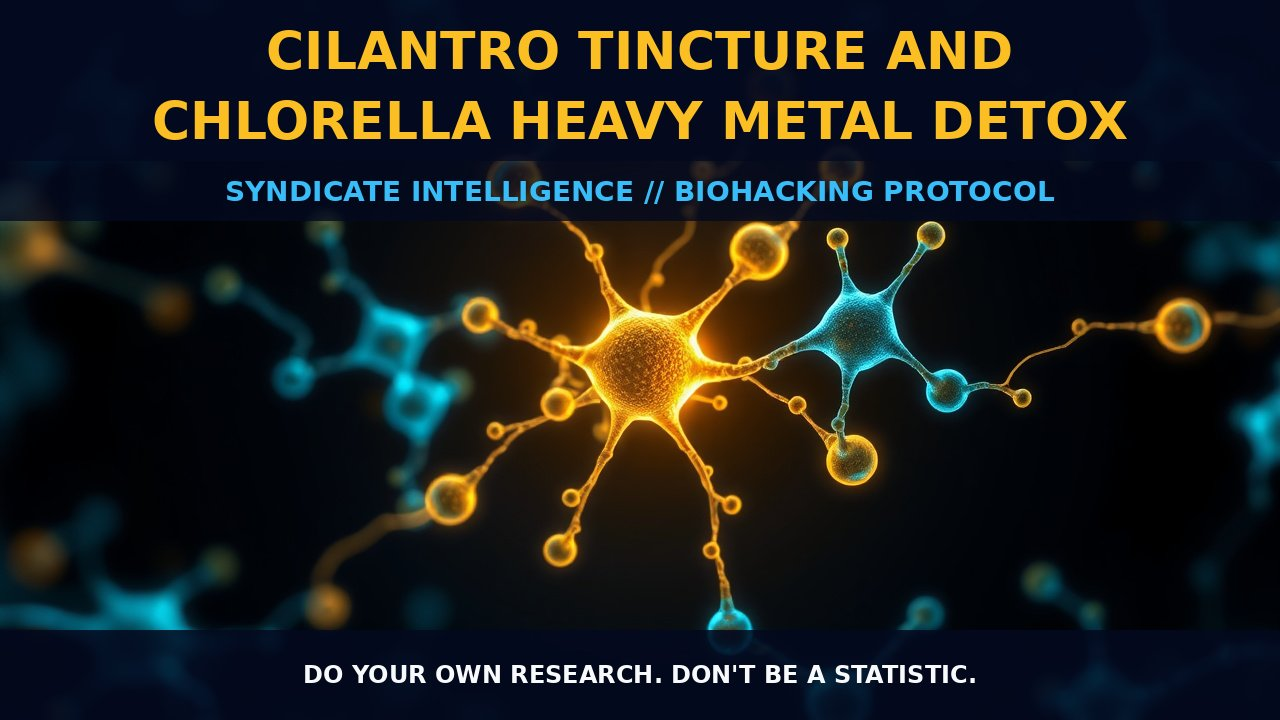
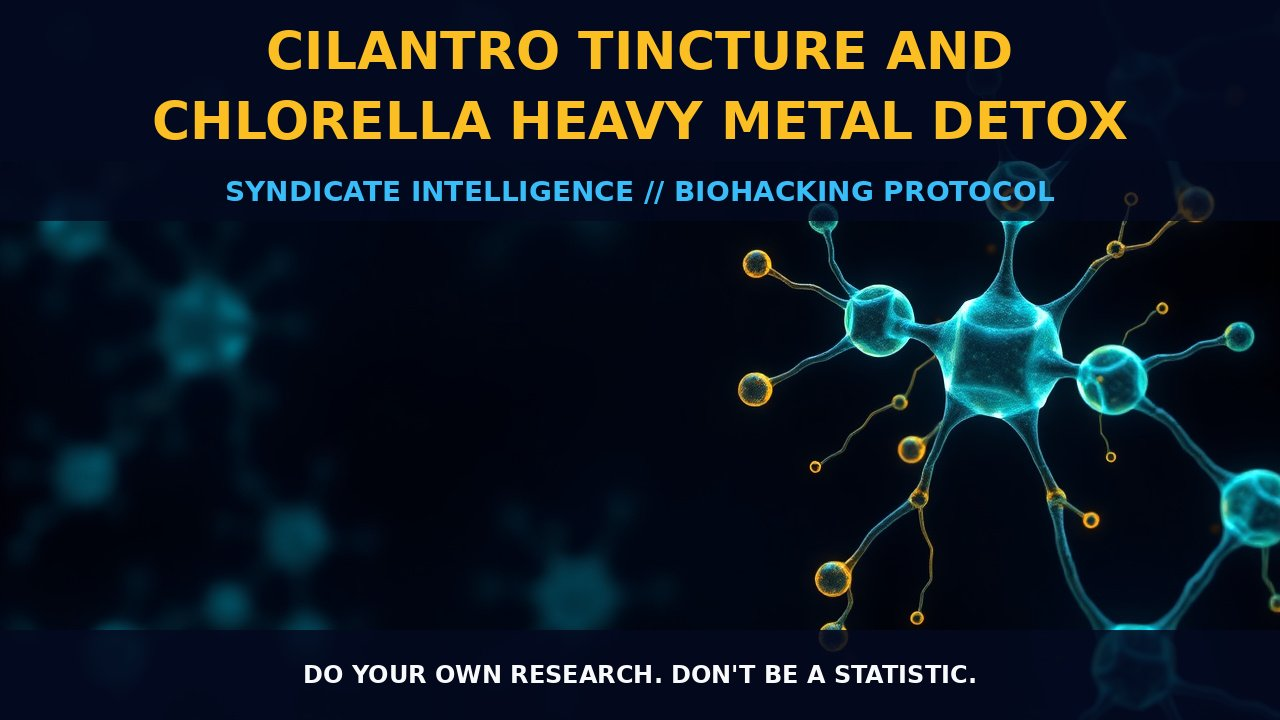
Syndicate Transmission: cilantro tincture and chlorella heavy metal detox

diff --git a/articles/2026-05-17-cilantro-tincture-and-chlorella-heavy-metal-detox.html b/articles/2026-05-17-cilantro-tincture-and-chlorella-heavy-metal-detox.html
@@ -1,0 +1,250 @@
+<!DOCTYPE html>
+<html lang="en">
+<head>
+<!-- Google Tag Manager -->
+<script>(function(w,d,s,l,i){w[l]=w[l]||[];w[l].push({'gtm.start':
+new Date().getTime(),event:'gtm.js'});var f=d.getElementsByTagName(s)[0],
+j=d.createElement(s),dl=l!='dataLayer'?'&l='+l:'';j.async=true;j.src=
+'https://www.googletagmanager.com/gtm.js?id='+i+dl;f.parentNode.insertBefore(j,f);
+})(window,document,'script','dataLayer','GTM-P9TBCF2X');</script>
+<!-- End Google Tag Manager -->
+<!-- Google tag (gtag.js) -->
+<script async src="https://www.googletagmanager.com/gtag/js?id=G-5RWXX320YW"></script>
+<script>
+  window.dataLayer = window.dataLayer || [];
+  function gtag(){dataLayer.push(arguments);}
+  gtag('js', new Date());
+
+  gtag('config', 'G-5RWXX320YW');
+</script>
+    <meta charset="UTF-8">
+    <meta name="viewport" content="width=device-width, initial-scale=1.0">
+    <title>cilantro tincture and chlorella heavy metal detox | Hopes and Dreams</title>
+    <link rel="preconnect" href="https://fonts.googleapis.com">
+    <link rel="preconnect" href="https://fonts.gstatic.com" crossorigin>
+    <link rel="dns-prefetch" href="https://fonts.googleapis.com">
+    <link rel="dns-prefetch" href="https://fonts.gstatic.com">
+    <link href="https://fonts.googleapis.com/css2?family=Inter:wght@400;700;900&display=swap" rel="stylesheet">
+    <link rel="stylesheet" href="../style.css">
+    <link rel="icon" type="image/x-icon" href="../favicon.ico">
+    <link rel="icon" type="image/png" sizes="32x32" href="../favicon-32x32.png">
+    <link rel="icon" type="image/png" sizes="16x16" href="../favicon-16x16.png">
+    <link rel="apple-touch-icon" sizes="180x180" href="../apple-touch-icon.png">
+    <style>
+        /* --- ARTICLE CONTENT AREA --- */
+        .article-container {
+            max-width: 800px;
+            margin: 0 auto;
+            padding: 0 24px 100px;
+        }
+
+        .glow-divider {
+            width: 100%;
+            height: 1px;
+            background: radial-gradient(circle, var(--neon-blue) 0%, transparent 70%);
+            opacity: 0.2;
+            margin-bottom: 60px;
+        }
+
+        h1 {
+            color: var(--text-main);
+            font-size: clamp(2.2rem, 7vw, 3.5rem);
+            font-weight: 900;
+            line-height: 1.1;
+            margin-bottom: 25px;
+            text-shadow: 0 0 30px rgba(255, 255, 255, 0.2);
+        }
+
+        .meta-data {
+            color: var(--neon-gold);
+            text-transform: uppercase;
+            font-size: 0.9rem;
+            letter-spacing: 2px;
+            font-weight: 700;
+            margin-bottom: 40px;
+            display: block;
+        }
+
+        h2 {
+            color: #ffffff;
+            font-size: clamp(1.6rem, 5vw, 2.4rem);
+            font-weight: 800;
+            margin-top: 60px;
+            margin-bottom: 25px;
+            text-transform: uppercase;
+            letter-spacing: 2px;
+            text-shadow: 0 0 15px var(--neon-blue), 0 0 5px #ffffff;
+        }
+
+        p {
+            color: var(--text-dim);
+            font-size: 1.2rem;
+            margin-bottom: 25px;
+        }
+
+        strong {
+            color: var(--text-main);
+            font-weight: 700;
+        }
+
+        .hack-box {
+            background-color: var(--card-bg);
+            border-left: 4px solid var(--neon-gold);
+            padding: 30px;
+            border-radius: 0 16px 16px 0;
+            margin: 40px 0;
+        }
+
+        .hack-box h4 {
+            color: var(--neon-gold);
+            margin: 0 0 10px 0;
+            text-transform: uppercase;
+            letter-spacing: 1px;
+        }
+
+        .article-img {
+            width: 100%;
+            border-radius: 24px;
+            border: 1px solid rgba(56, 189, 248, 0.2);
+            margin: 40px 0;
+        }
+
+        ul {
+            color: var(--text-dim);
+            font-size: 1.1rem;
+            margin-bottom: 30px;
+        }
+
+        li {
+            margin-bottom: 10px;
+        }
+
+        .syndicate-footer {
+            margin-top: 80px;
+            padding: 40px;
+            background: rgba(56, 189, 248, 0.05);
+            border: 1px solid rgba(56, 189, 248, 0.1);
+            border-radius: 24px;
+            text-align: center;
+        }
+
+        .btn-fb {
+            display: inline-block;
+            margin-top: 20px;
+            background: var(--neon-blue);
+            color: var(--bg-main);
+            padding: 15px 30px;
+            border-radius: 50px;
+            text-decoration: none;
+            font-weight: 900;
+            text-transform: uppercase;
+            transition: 0.3s;
+        }
+
+        .btn-fb:hover {
+            background: var(--neon-gold);
+            transform: scale(1.05);
+        }
+
+        footer {
+            text-align: center;
+            padding: 60px 0;
+            color: #4b5563;
+            font-size: 0.85rem;
+            border-top: 1px solid rgba(255, 255, 255, 0.05);
+        }
+
+        .timestamp-live {
+            min-height: 1.2em;
+        }
+
+        @media (max-width: 600px) {
+            h1 { font-size: 2rem; }
+            nav { flex-direction: column; gap: 20px; align-items: center; }
+        }
+    </style>
+</head>
+<body>
+<!-- Google Tag Manager (noscript) -->
+<noscript><iframe src="https://www.googletagmanager.com/ns.html?id=GTM-P9TBCF2X"
+height="0" width="0" style="display:none;visibility:hidden"></iframe></noscript>
+<!-- End Google Tag Manager (noscript) -->
+    <div id="scroll-progress"></div>
+    <button id="theme-toggle" class="theme-toggle-pill" aria-label="Toggle between dark and light mode">☀ LIGHT MODE</button>
+
+    <header>
+        <div class="logo-wrap">
+            <img src="../topper.png" alt="Hopes and Dreams" width="1780" height="1050" fetchpriority="high">
+        </div>
+
+        <nav>
+            <a href="../index.html">Home</a>
+            <a href="../shop.html">Procurement</a>
+            <a href="../optimization.html">Optimization</a>
+            <a href="../intel.html">Intel Hub</a>
+            <a href="https://merch.hopes-and-dreams.ca" target="_blank" rel="noopener noreferrer">Merch</a>
+            <a href="../about.html">About</a>
+            <a href="../privacy.html">Privacy</a>
+        </nav>
+    </header>
+
+    <div class="container">
+        <article class="article-container" data-reveal>
+            <div class="timestamp-live" data-timestamp="[ LIVE FEED ] RECEIVED: 2026-05-17 15:00:59 AST"></div>
+            <h1>cilantro tincture and chlorella heavy metal detox</h1>
+
+            <img src="../media/general/2026-05-17-cilantro-tincture-and-chlorella-heavy-metal-detox.jpg" alt="cilantro tincture and chlorella heavy metal detox" class="article-img">
+
+            <div class="intel-burst">
+                <p>THE MECHANICS<br><br>Cilantro tincture has been researched for its potential in aiding detoxification of heavy metals such as mercury and lead. It is believed that cilantro's chelating properties help mobilize these toxins from the body for excretion, with some studies suggesting efficacy through urinary excretion. Chlorella, a green algae, also serves as a chelator and heavy metal detoxifier due to its high affinity for metals like mercury, cadmium, and lead. It can bind to these toxins in the gut and prevent their absorption into the bloodstream, supporting liver function by reducing oxidative stress caused by these contaminants.<br><br>Core Physiological Mechanics:<br>Cilantro tincture may exert its effects via binding to metal ions, facilitating their removal from the body.<br>Chlorella acts as a chelator, binding heavy metals in the gut and aiding in their excretion through feces or urine.<br>Both substances potentially improve physiological conditions by reducing oxidative stress and supporting liver detoxification processes.<br><br>THE BIOLOGICAL LEVERAGE<br><br>Cilantro tincture leverages its chelating properties to disrupt the binding of heavy metals in the body, mobilizing them for excretion. Chlorella uses its bioactive compounds to bind and neutralize toxins within the gastrointestinal tract, further aiding detoxification pathways. These mechanisms support a deeper understanding of how these natural substances may be used to enhance detoxification processes from environmental and dietary sources.<br><br>THE TACTICAL IMPLEMENTATION<br><br>Specific Dosages or Protocols:<br>Cilantro tincture: Dosing for heavy metal detox varies but starting with 1 tsp per day, divided into two doses, is suggested. Clinical studies may provide more precise dosage guidelines.<br>Chlorella: Typically, a dose of 1 to 3 grams daily is recommended, though individual needs and tolerance should be considered.<br><br>Actionable Biological Leverage:<br>Cilantro tincture leverages its chelating properties to disrupt the binding of heavy metals in the body, mobilizing them for excretion.<br>Chlorella uses its bioactive compounds to bind and neutralize toxins within the gastrointestinal tract, further aiding detoxification pathways.<br><br>Do your own research. Don't be a statistic.</p>
+            </div>
+
+            <div class="hack-box"><h4>Prostar Life Hack</h4><p>Always verify protocol biological leverage with baseline biometric tracking. Data is sovereignty.</p></div>
+
+            <div class="researcher-sig">
+                [ STATUS: TRANSMISSION_COMPLETE ]<br>
+                [ AUTHOR: LEAD TECHNICAL RESEARCHER ]
+            </div>
+
+            <div class="syndicate-footer">
+                <h3>Join the Conversation</h3>
+                <p>Discuss this transmission and share your results with the rest of the builders in our private community.</p>
+                <a href="https://www.facebook.com/profile.php?id=61581034972328" class="btn-fb" target="_blank" rel="noopener noreferrer">Connect on Facebook →</a>
+            </div>
+        </article>
+
+        <section id="article-navigation" class="article-nav-section"></section>
+
+        <section class="newsletter-section" data-reveal>
+            <div class="newsletter-box">
+                <h3>Join the Syndicate</h3>
+                <p>Initialize your subscription for weekly intelligence on neuro-optimization, biological hacking, and technical stack evolution.</p>
+                <form action="https://formspree.io/f/xqegvale" method="POST" class="newsletter-form">
+                    <input type="email" name="email" placeholder="Enter your email address" required>
+                    <button type="submit">Secure Entry</button>
+                </form>
+            </div>
+        </section>
+
+        <footer>
+            <p>&copy; 2026 Dream Syndicate Digital Assets. All Rights Reserved.</p>
+            <p>
+                <a href="https://www.facebook.com/profile.php?id=61581034972328" target="_blank" rel="noopener noreferrer">Connect on Facebook</a> |
+                <a href="https://merch.hopes-and-dreams.ca" target="_blank" rel="noopener noreferrer">Merch</a> |
+                <a href="../intel.html">Intel Hub</a> |
+                <a href="../optimization.html">Tools</a> |
+                <a href="../privacy.html">Privacy Policy</a> |
+                <a href="../about.html">Contact Us</a>
+            </p>
+            <p style="font-size: 0.7rem; color: var(--text-dim); margin-top: 10px;">Location: Saint John, New Brunswick, Canada</p>
+        </footer>
+    </div>
+
+    <script src="https://cdnjs.cloudflare.com/ajax/libs/gsap/3.12.5/gsap.min.js"></script>
+    <script src="https://cdnjs.cloudflare.com/ajax/libs/gsap/3.12.5/Flip.min.js"></script>
+    <script src="https://cdnjs.cloudflare.com/ajax/libs/gsap/3.12.5/TextPlugin.min.js"></script>
+    <script src="../codex.js" defer></script>
+    <script src="../script.js" defer></script>
+
+</body>
+</html>

diff --git a/intel.html b/intel.html
@@ -154,6 +154,12 @@ height="0" width="0" style="display:none;visibility:hidden"></iframe></noscript>
 <!-- LATEST_3_POSTS_START -->
                 <div class="card">
                     <div class="meta-data" style="font-size: 0.7rem; color: var(--neon-gold); margin-bottom: 10px;">TRANSMISSION: 2026-05-17</div>
+                    <h3 style="color: #ffffff; text-shadow: 0 0 10px var(--neon-blue);">cilantro tincture and chlorella heavy metal detox</h3>
+                    <p>cilantro tincture and chlorella heavy metal detox protocol initialized. Access the full intel burst below.</p>
+                    <a href="articles/2026-05-17-cilantro-tincture-and-chlorella-heavy-metal-detox.html" class="buy-btn" style="font-size: 0.7rem; padding: 8px 16px;">View Intel →</a>
+                </div>
+<div class="card">
+                    <div class="meta-data" style="font-size: 0.7rem; color: var(--neon-gold); margin-bottom: 10px;">TRANSMISSION: 2026-05-17</div>
                     <h3 style="color: #ffffff; text-shadow: 0 0 10px var(--neon-blue);">chlorella</h3>
                     <p>chlorella protocol initialized. Access the full intel burst below.</p>
                     <a href="articles/2026-05-17-chlorella.html" class="buy-btn" style="font-size: 0.7rem; padding: 8px 16px;">View Intel →</a>
@@ -164,23 +170,17 @@ height="0" width="0" style="display:none;visibility:hidden"></iframe></noscript>
                     <p>Lucid Dreaming protocol initialized. Access the full intel burst below.</p>
                     <a href="articles/2026-05-17-lucid-dreaming.html" class="buy-btn" style="font-size: 0.7rem; padding: 8px 16px;">View Intel →</a>
                 </div>
-<div class="card">
-                    <div class="meta-data" style="font-size: 0.7rem; color: var(--neon-gold); margin-bottom: 10px;">TRANSMISSION: 2026-05-16</div>
-                    <h3 style="color: #ffffff; text-shadow: 0 0 10px var(--neon-blue);">Lucid Dreaming</h3>
-                    <p>Lucid Dreaming protocol initialized. Access the full intel burst below.</p>
-                    <a href="articles/2026-05-16-lucid-dreaming.html" class="buy-btn" style="font-size: 0.7rem; padding: 8px 16px;">View Intel →</a>
-                </div>
                 <!-- LATEST_3_POSTS_END -->
 </div>
 <div id="older-transmissions-container" style="text-align: left; margin-top: 30px; padding: 30px; background: var(--card-bg); border: 1px solid rgba(56, 189, 248, 0.1); border-radius: 24px;">
 <h4 style="color: var(--neon-blue); text-transform: uppercase; letter-spacing: 2px; margin-top: 0; margin-bottom: 20px; font-size: 0.9rem;">Intelligence Archive</h4>
 <ul id="older-posts-links" style="list-style: none; padding: 0; margin-bottom: 20px;">
 <!-- OLDER_POSTS_START -->
+                    <li style="margin-bottom: 10px;"><a href="articles/2026-05-17-cilantro-tincture-and-chlorella-heavy-metal-detox.html" style="color: var(--text-dim); text-decoration: none; font-size: 0.85rem;">[2026-05-17] cilantro tincture and chlorella heavy metal detox</a></li>
                     <li style="margin-bottom: 10px;"><a href="articles/2026-05-17-chlorella.html" style="color: var(--text-dim); text-decoration: none; font-size: 0.85rem;">[2026-05-17] chlorella</a></li>
                     <li style="margin-bottom: 10px;"><a href="articles/2026-05-17-lucid-dreaming.html" style="color: var(--text-dim); text-decoration: none; font-size: 0.85rem;">[2026-05-17] Lucid Dreaming</a></li>
                     <li style="margin-bottom: 10px;"><a href="articles/2026-05-16-lucid-dreaming.html" style="color: var(--text-dim); text-decoration: none; font-size: 0.85rem;">[2026-05-16] Lucid Dreaming</a></li>
                     <li style="margin-bottom: 10px;"><a href="articles/2026-05-16-senolytics-quercetin-fisetin.html" style="color: var(--text-dim); text-decoration: none; font-size: 0.85rem;">[2026-05-16] Senolytics (Quercetin/Fisetin)</a></li>
-                    <li style="margin-bottom: 10px;"><a href="articles/2026-05-16-melatonin.html" style="color: var(--text-dim); text-decoration: none; font-size: 0.85rem;">[2026-05-16] Melatonin</a></li>
                     <!-- OLDER_POSTS_END -->
 </ul>
 <a class="buy-btn" href="transmissions.html" style="display: inline-block; width: auto; padding: 8px 20px; font-size: 0.7rem;">Access Full Vault →</a>

diff --git a/transmissions.html b/transmissions.html
@@ -101,7 +101,11 @@ height="0" width="0" style="display:none;visibility:hidden"></iframe></noscript>
 <div class="archive-list" id="full-archive-list">
 <div class="glow-divider"></div>
 <!-- ARCHIVE_POSTS_START -->
-            <a href="articles/2026-05-17-chlorella.html" class="archive-item">
+            <a href="articles/2026-05-17-cilantro-tincture-and-chlorella-heavy-metal-detox.html" class="archive-item">
+                <span class="title">cilantro tincture and chlorella heavy metal detox</span>
+                <span class="date">2026-05-17</span>
+            </a>
+<a href="articles/2026-05-17-chlorella.html" class="archive-item">
                 <span class="title">chlorella</span>
                 <span class="date">2026-05-17</span>
             </a>
